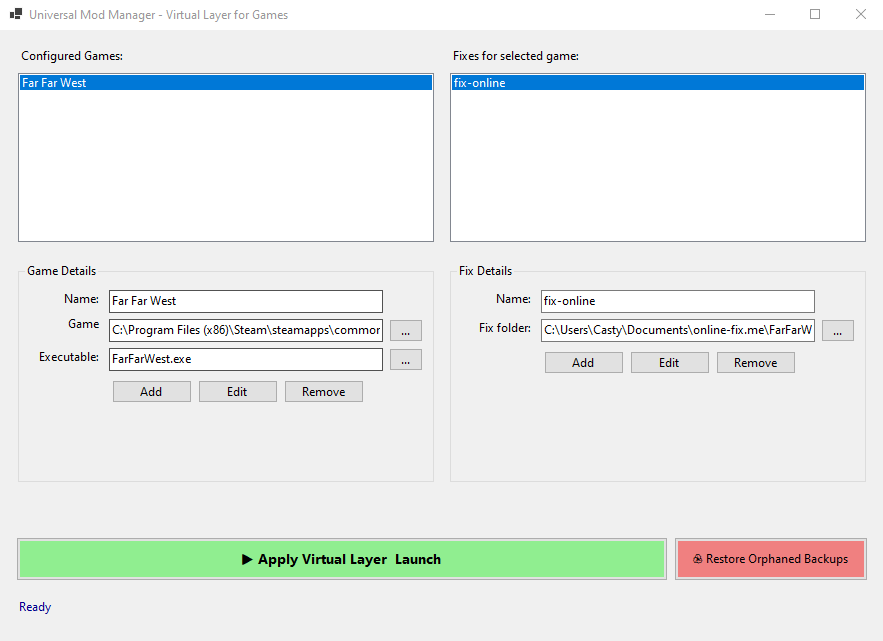
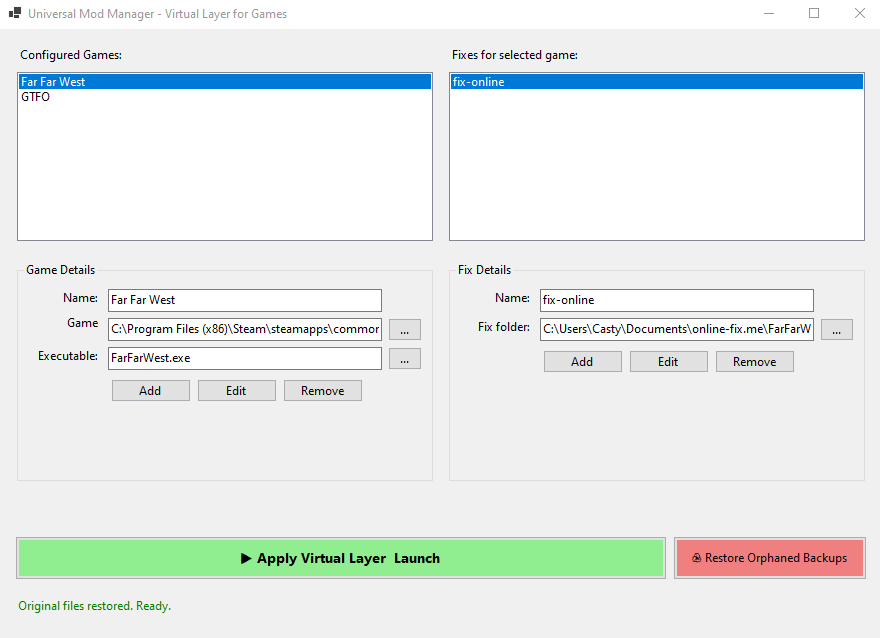
quick fix

diff --git a/Form1.cs b/Form1.cs
@@ -10,6 +10,8 @@ public partial class Form1 : Form
     {
         public string Name { get; set; } = "";
         public string FolderPath { get; set; } = "";
+
+        public override string ToString() => Name;
     }
 
     private class Game
@@ -18,6 +20,8 @@ public partial class Form1 : Form
         public string GamePath { get; set; } = "";
         public string ExePath { get; set; } = "";
         public List<Fix> Fixes { get; set; } = new();
+
+        public override string ToString() => Name;
     }
 
     private class ConfigData
